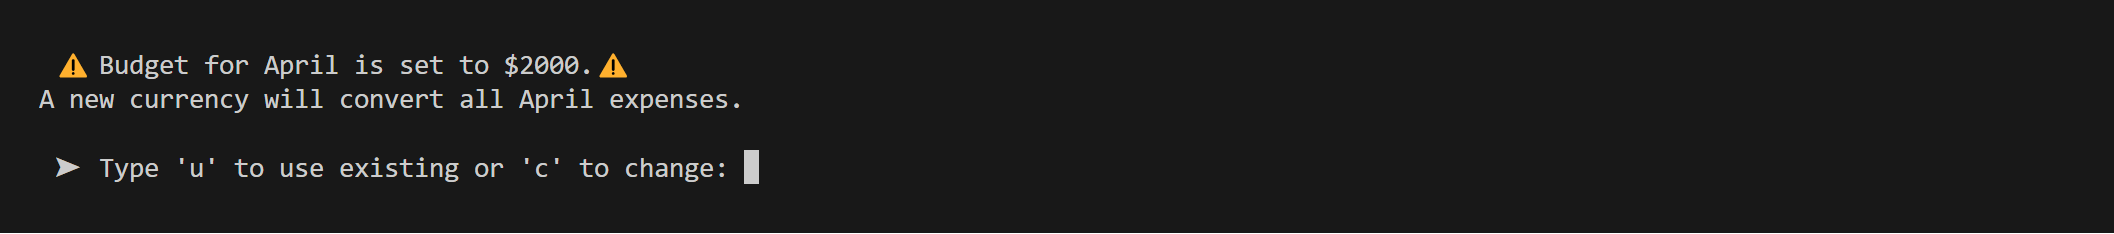
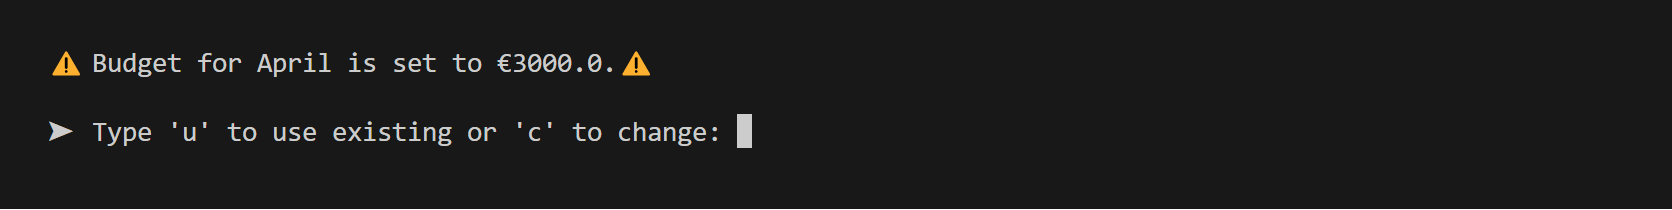
add: Add README content, imgs + clear terminals

diff --git a/run.py b/run.py
@@ -457,6 +457,7 @@ def validate_retr_budget(budg):
                 .strip()
                 .lower())
             if user_budget_input == "u":
+                clear_terminal()
                 print(f"✅  Budget for {budg_month}: {budg}")
                 break
             elif user_budget_input == "c":
@@ -546,6 +547,7 @@ def ask_expense(category: str):
             form_expense = format_expenses(user_exp)
             user_choice = confirm_input(form_expense, f' for "{category}".')
             if user_choice == "p":
+                clear_terminal()
                 print("\n ✅  Saved!\n ⌛  Updating your expense log...")
                 update_expenses([category, user_exp])
                 continue_expenses()

diff --git a/README.md b/README.md
@@ -5,6 +5,13 @@ The application is available for viewing [here](https://tag-track-revived-46181e
 
 The Google Sheets for this application is available for use [here](https://docs.google.com/spreadsheets/d/1kGdwNqPvyRYIRL4LbEy-CgS1YDIHI6uKYHOG7gMbuB8/edit#gid=1925370965).
 
+
+### A Note to Readers
+This application was initially developed with the additional functionality of currency choice and conversion, using the forex-python API. However, as the project neared its completion, the API malfunctioned and essentially shut down for maintenance, rendering this functionality unresponsive and with several terminal errors. As this was outside of control, a decision was made to remove this functionality and re-encorporate it at a later stage, perhaps using a different API. 
+
+The last commit message associated with currency conversion has a hash of _d30cd8ca8066823956a70192c097ff8337439da0_, and can be found [here](https://github.com/Ana-Niko-byte/tag-track/commits/main/). 
+
+
 ![reponsive UI](docs/images/amiresponsive.png)
 
 # Business/Social Goals
@@ -20,14 +27,13 @@ The Google Sheets for this application is available for use [here](https://docs.
 - As a first time user, I want the ability to quickly select options and enter my expenses.
 - As a first time user, I expect immediate feedback on my entries, with an option to easily exit and restart in case of errors.
 - As a first time user, I prefer having a single view where my expenses and budget are logged together for personal analysis. This should include a remainder calculation after all of the expenses have been deducted from my budget. 
-
+---
 - As a regular user, I seek the capability to log multiple expenses simultaneously in different categories and see the total spent in each category.
 - As a regular user, I need a visual cue to indicate when my spending exceeds my monthly budget.
 - As a regular user, I desire a monthly expense record for future reference in a recognisable and legible format.
-- As a regular user, I want the option of being able to log my expenses in multiple currencies.
 
 # UX Goals
-Due to the solely-backend nature of this project, enhanecement strategies for the UI's visual appeal are limited. Nonetheless:
+Due to the solely-backend nature of this project, enhancement strategies for the UI's visual appeal are limited. Nonetheless:
 
 - Design a well-structured terminal interface that utilizes spacing effectively for optimal readability.
 - Clear the terminal screen after each significant input to avoid visual littering and focus attention towards input validation and the next step.
@@ -37,30 +43,25 @@ Due to the solely-backend nature of this project, enhanecement strategies for th
 
 # Structure 
 The structure of the 'Tag Track' application is as follows: 
-
 - Title
-- Name input prompt with validation
-- Month input prompt (number list) with validation
-- Retrieval of any existing budget/ budget remainder
-    - + option of using the values or changing them
-- Currency input prompt with validation
-    - EUR
-    - GBP
-    - USD
-- Total Monthly Budget input prompt with validation
-    - Or budget retrieval system based on the user's month selection. 
-- List of Categorised Expenses
+- Name input prompt with validation.
+- Month input prompt (number list) with validation.
+- Retrieval of any existing budget/ budget remainder.
+    - Option of using the values or changing them.
+- Total Monthly Budget input prompt with validation.
+    - Or category selection based on the user's choice of using existing budget or changing it.
+- List of Categorised expenses for selection:
     - Rent
     - Groceries
     - Vehicle
     - Cafe/Restaurant
     - Online Shopping
     - Other
-- Category Input prompt with validation
-- Expense input prompt with validation
-- Visual Appendage in the form of a table with relevant budget calculation
+- Category Input prompt
+- Expense input prompt with validation.
+- Visual Appendage in the form of a table with relevant budget calculation. The table also retrieves the values of previous logs for each category and displays them in a different colour. 
 - _Press 'u' to upload expenses to Google Sheets OR Type 'q' to quit..._
-- Ability to _quit_ at each input prompt
+- Ability to _quit_ at most input prompts.
 
 # Scope of Application
 The purpose of the application is to gather expense data from the user and input this information into Google Sheets as individual rows. Google Sheets serves as a reference and as a recognisable and legible format in which the user may review their expenses, and see their annual spendings. 
@@ -68,24 +69,24 @@ The purpose of the application is to gather expense data from the user and input
 The scope of this application is as follows: 
 1. Name input with validation (to personalise the experience).
 
-2. Choice of month with validation and confirmation prompt, essential as the app works on a monthly framework for budgeting and final tallies. Users can select a month numerically (e.g., 1 for January, 2 for February), with a confirmation step to prevent accidental selections. The chosen month appears as a heading in both Google Sheets and the terminal table.
+2. Choice of month with validation and confirmation prompt, essential as the app works on a monthly framework for budgeting and final tallies. Users can select a month numerically (e.g., _1_ for _January_, _2_ for _February_), with a confirmation step to prevent accidental selections. The chosen month appears as a heading in both Google Sheets and the terminal table.
 
-3. Budget and Budget Remainder retrieval. After selecting a month, the application checks for any existing values in cells 'B1' - Month Budget, and 'F1' - Month Remainder. If found, prompts the user whether they wish to use these values or change them. If the user selects to use - the application jumps to category selection for expense logging. Else, continues to currency selection. 
+3. Budget and Budget Remainder retrieval. After selecting a month, the application checks for any existing values in cells _B1 - Month Budget_, and _F1 - Month Remainder_. If found, prompts the user whether they wish to use these values or change them. If the user selects to use - the application jumps to category selection for expense logging. Else, continues to budget input. 
 
-4. Currency selection with validation. 
+4. Monthly Budget Input - later transferred to Google Sheets as data for calculation. All expenses get appended with the Euro currency symbol. 
 
-5. Monthly Budget Input - later transferred to Google Sheets as data for calculation.
+5. User inputs are confirmed with _Type 'p' to proceed, 'c' to change, or 'q' to quit:_. The input accepts lower and uppercase letters, strips them incase the user pressed _space_ after the letter, and applies logic accordingly. 
 
-6. User inputs are confirmed with _Type 'p' to proceed, 'c' to change, or 'q' to quit:_. The input accepts lower and uppercase letters, and applies logic accordingly. 
+6. A list of expense categories, aiding users in organized entry of expenses. These categories also help in sorting expenses in Google Sheets and are used for generating expense totals in each category for each month in the annual _Overview_ sheet.
 
-7. A list of expense categories, aiding users in organized entry of expenses. These categories also help in sorting expenses in Google Sheets and are used for generating expense totals in each category for each month in the annual _Overview_ sheet.
+7. After entering expenses, the application automatically calculates and displays the total monthly expenses per category. This feature helps users understand their spending patterns and notice any imbalances.
 
-8. After entering expenses, the application automatically calculates and displays the total monthly expenses per category. This feature helps users understand their spending patterns and notice any imbalances. If the user had previously changed their desired currency from the one the application logged the budget remainder onto Google Sheets, changes in value are applied accordingly and the correct value is returned (subject to Currency Rates from Forex-Python).
-
-9. A prompt to ask whether users would like to upload their expenses to Google sheets into organised month spreads. This is the final step and serves as a reference directory for the user should they wish to review or amend their spendings at a later stage. The application displays a goodbye message after everything has been uploaded and exits. 
+8. A prompt to ask whether users would like to upload their expenses to Google sheets. This is the final step and serves as a reference directory for the user should they wish to review or amend their monthly spendings at a later stage. The application displays a goodbye message after everything has been uploaded and exits. 
 
 # Strategy
-The aim of the application is to provide an easy-to-use and interactive platform for monitoring expenses within a budget framework. Users can track their spending against a monthly budget and have the flexibility to check their remaining balance, whether it's in surplus or deficit, at any time. The application is flexible with currencies (at the moment supporting either 'EUR', 'GBP', and 'USD'), and applies all relevant changes to remainder value accordingly. Through Tag Tracker, users gain insights into their spending patterns, identify which months incur higher expenses, and adjust their spending behavior accordingly.
+The aim of the application is to provide an easy-to-use and interactive platform for monitoring expenses within a budget framework. 
+
+Users can track their spendings against a monthly budget and have the flexibility to check their remaining balance, whether it's in surplus or deficit, at any time. Through Tag-Track, users gain insights into their spending patterns, identify which months incur higher expenses, and can adjust their spending behavior accordingly.
 
 ## Target Audience
 - Anyone aged 16+ yrs.
@@ -113,7 +114,7 @@ Below is the flowchart for the application. Noted is the general flow of the app
 
 # Aesthetics
 ### Colour
-Color plays a key role in the tag-tracker interface, with specific hues chosen for their significance and legibility. The title of the tag-tracker and the headers of all tables feature green, a color universally linked with finance and money. Green is also chosen for its high legibility in the colorama Python library, making it a suitable choice.
+Color plays a key role in the tag-track interface, with specific hues chosen for their significance and legibility. The title of the tag-tracker and the headers of all tables feature green, a color universally linked with finance and money. Green is also chosen for its high legibility in the colorama Python library, making it a suitable choice.
 
 ![tag tracker heading](docs/images/heading.png)
 
@@ -121,6 +122,8 @@ For instances where a user exceeds their monthly budget, red is utilized in the 
 
 ![conclusive user table feature (green)](docs/images/conclusive-table-green.png)
 ![conclusive user table feature (red)](docs/images/conclusive-table-red.png)
+
+Yellow is chosen for showing finances that were logged previously - mostly because it differs the most from red and green, and is easy to read against the dark terminal screen.
 
 The main reason for using colour in the application is to provide a somewhat engaging interface for the user, and to distinguish key pieces of text from the terminal face. 
 
@@ -137,14 +140,10 @@ Emojis/icons are used throughout the application to visually aid users in distin
 - 👋 : signifies exiting. 
 
 # Features
-### Month/Currency/Categories Choice
+### Month/Categories Choice
 Users can choose a month for tracking their expenses from a numerical list. This selection process retrieves the corresponding monthly sheet from Google Sheets, along with any existing data relevant to that month. Later in the application, both the user's expenses and budget information are recorded onto the appropriate Google Sheet for that month, and calculations for total expenses are made for the corresponding month row in the overview sheet. 
 
 ![month feature](docs/images/month-selection.png)
-
-Users are given the option to select from 3 different currencies to record their expenses. This feature integrates with the currencies Python library, enabling the display of corresponding currency symbols next to the users' expense and budget entries. Forex-python is used for converting values from one currency to another, e.g., for the logic calculating budget remainder.
-
-![currency feature](docs/images/currency-selection.png)
 
 Users are given the option to select from 6 different categories to record their expenses. These categories represent columns in the month sheets, to which users can log their expenses. These same columns are replicated in the overview sheet, providing users with a detailed annual summary of their expenses across all categories.
 
@@ -159,9 +158,9 @@ Note: This image does not relate to the path followed through the application as
 As mentioned, the user's month selection retrieves the corresponding Google Sheet with all relevant data already on it. This data includes a check for an existing budget previously logged by the user:
 
 #### Existing Budget
-If one exists, the user is prompted on whether they wish to continue with this budget, or update it to a new value. The input is then validated and the application proceeds according to the user's choice. 
+If a month budget exists, the user is prompted to choose to continue with this budget, or update it to a new value. The input is then validated and the application proceeds according to the user's choice. 
 
-In the first image below, there is an existing budget of 6000 euro for the month of January.
+In the first image below, there is an existing budget of 3000 euro for the month of January.
 
 ![existing budget in Google Sheets](docs/images/existing-budget.png)
 
@@ -185,8 +184,14 @@ The conclusive user table displays a summary of the user's logged expenses. The 
 ### Google Sheets Logging + Overview Calculations
 Under the conclusive user expense table, the user is asked whether they want to log their expenses to Google Sheets. If not, the application displays a goodbye message and does not log anything. If yes, the expenses are logged to Google Sheets and the overview sheet is automatically updated with new totals.
 
-Below is an example after the user has been logging expenses over the course of a few months. Expenses are added up and logged to the overview sheet. In the case of cell 'F2' - where the currency differs from the rest, the user had logged only one expense, the currency of 'GBP'. This means that any existing value for that category was converted to 'GBP', prior to having the new expense added onto it and logged.
+Below is an example after the user has been logging expenses over the course of a few months. Expenses are added up and logged to the overview sheet.
+
 ![overview feature](docs/images/tag-track-overview.png)
+
+### Goodbye
+If the user types 'q' at any of the checkpoints, the application displays a goodbye message and exits. Any relevant values are reset. 
+
+![goodbye message](docs/images/goodbye.png)
 
 # Technologies
 - [gspread](https://pypi.org/project/gspread/) - for interacting with Google Sheets.
@@ -197,7 +202,7 @@ Below is an example after the user has been logging expenses over the course of 
 - [colorama](https://pypi.org/project/colorama/) - for text colours. 
 - [prettytable](https://pypi.org/project/prettytable/) - for tables.
 - [termcolor](https://pypi.org/project/termcolor/) - used in title and heading colours. 
-- [currencies](https://pypi.org/project/currencies/) - for currency symbols and conversions. 
+- [currencies](https://pypi.org/project/currencies/) - for currency symbols. 
 - [amiresponsive](https://ui.dev/amiresponsive?url=https://tag-track-cc45575f1826.herokuapp.com/) - for the responsive png
 - [Code Beautify](https://codebeautify.org/python-formatter-beautifier) - for beautifying my Python Code.
 - [CI Python Linter](https://pep8ci.herokuapp.com/) - for detecting lint in my code.
@@ -208,15 +213,14 @@ Below is an example after the user has been logging expenses over the course of 
 |----------|----------|----------|----------|----------|
 | Intro   | Print? Ask Name?   | Click 'Run Program' | Heading prints as expected, asks Name | <img src="docs/images/thumbs-up.jpg">   |
 | Name Input  | Loop until Validated? Month input?   | Inputs: '', 'ana43', '35', 'ana'   | Loops until validated ('ana') with appropriate error messages, greeting with capitalised Name, asks Month | <img src="docs/images/thumbs-up.jpg"> |
-| Month Input   | Loop until Validated? Currency choice?   | Inputs: '', letters, numbers > 12, '1' | Loops until validated ('1') with appropriate error messages, asks Currency   | <img src="docs/images/thumbs-up.jpg"> |
-| Budget Retrieval   | Retrieve Existing Budget? Display? Give option to proceed or change? Loop Validation? Ask Currency if no Existing?   | Check for existing budget on Tag-Track Google Sheets, Inputs: 'w', 'c', 'p' | Retrieves and Displays Correct Budget, Loops until validated (both 'c' to change, then 'p' to proceed), If none exists - asks for Budget, Displays Category Choice | <img src="docs/images/thumbs-up.jpg"> |
+| Month Input   | Loop until Validated? Retrieves Budget?   | Inputs: '', letters, numbers > 12, '1' | Loops until validated ('1') with appropriate error messages, asks Budget Retrieval Message/ Jumps to Budget Prompt   | <img src="docs/images/thumbs-up.jpg"> |
+| Budget Retrieval   | Retrieve Existing Budget? Display? Give option to proceed or change? Loop Validation? Ask Budget if no Existing?   | Check for existing budget on Tag-Track Google Sheets, Inputs: 'w', 'c', 'p' | Retrieves and Displays Correct Budget, Loops until validated (both 'c' to change, then 'p' to proceed), If none exists - asks for Budget, Displays Category Choice | <img src="docs/images/thumbs-up.jpg"> |
 | Procedure Check in! | 'p' to proceed, 'c' to change - re-plays previous feature, 'q' to exit | Inputs: '', 'g', '4', 'p', 'c', 'q' (at different intervals)  | Loops until validated ('p') with appropriate error messages, proceeds to next feature, 'c' allows the user to change their input, 'q' exits the application | <img src="docs/images/thumbs-up.jpg"> |
-| Currency Choice   | Loop until Validated? Exit Check? | Inputs: '', letters, numbers > 3, '1' | Loops until validated ('1') with appropriate error messages, proceeds to next Check | <img src="docs/images/thumbs-up.jpg"> |
-| Currency Symbol + Formatting | Return Correct Symbol on Expense? | Choose Currency, Visual Check on confirmation msg, budget format + expenses format later | Correctly Returns Formatted Expense | <img src="docs/images/thumbs-up.jpg"> |
+| Currency Formatting | Correctly appends euro symbol? | Visual Check on budget format + expenses format | Correctly Returns Formatted Expense | <img src="docs/images/thumbs-up.jpg"> |
 | Category Choice | Loop until Validated? Expense Input Prompt? | Inputs: '', letters, numbers > 6, '2' | Loops until validated ('2') with appropriate error messages, proceeds to Expense Input | <img src="docs/images/thumbs-up.jpg"> |
 | Expense Input | Loop until Validated? Take Float? Expense Check? | Inputs: '', letters, '103.56' | Loops until validated ('103.56') with appropriate error messages, proceeds to Expense Check | <img src="docs/images/thumbs-up.jpg"> |
 | Expense Check | Loop until Validated? Allow another Expense Entry? 'a', Continue to User Expense Table? 'c' | Inputs: '', 't', 'a', 'c' | Loops Until Validated, Allows another expense entry 'a' - (Category Choice, then Expense Input Prompt), Continues to User Expense Table - 'c' | <img src="docs/images/thumbs-up.jpg"> |
-| Correct Remainder Calculation | Display: Correct Remainder Value? Correct Symbol Appendage? | Manual Addition/Subtraction + Comparison, Visual Check for Symbol + Colour if negative/positive value of remainder | Displays all Values + Correct Colours for negative/positive budget remainder | <img src="docs/images/thumbs-up.jpg"> |
+| Correct Remainder Calculation | Display: Correct Remainder Value? Symbol Appendage? | Manual Addition/Subtraction + Comparison, Visual Check for Symbol + Colour if negative/positive value of remainder | Displays all Values + Correct Colours for negative/positive budget remainder | <img src="docs/images/thumbs-up.jpg"> |
 | User Expense Table | Display: Budget? Correct Values including Addition of Same-Category Expenses? Remainder in Colour?, Upload/Exit Check? | Manual Addition/Subtraction + Comparison | Displays all Values + Correct Colours for negative/positive budget remainder | <img src="docs/images/thumbs-up.jpg"> |
 | Upload/Exit Check | Loop until Validated? Upload ('u') or Exit ('q')? | Inputs: '', 't', 'u', | Loops until validated, Uploads + Displays Success Msg, and/or Exits on 'q' | <img src="docs/images/thumbs-up.jpg"> |
 
@@ -292,11 +296,31 @@ This issue was highlighted in the library's repository in the 'issues' tab, and 
 
 It is my intention to re-encorporate this logic into the application through the original API source following course completion. 
 
+### Deprecation Warning
+While not necessarily an error, a warning was found on the terminal window regarding a deprecation of functionality associated with the gspread library. 
+
+![deprecation warning](docs/images/deprecation-warning.png)
+
+While the warning was addressed (to the best of my abilities), the warning message failed to disappear. A useful link used while attempting to resolve this issue can be found [here](https://github.com/burnash/gspread/issues/1310).
+
 # Accessibility & Performance
-This application was developed using VSCode's Pylance; a fast and feature-rich language server for Python that provides excellent IntelliSense capabilities. It enhances your development experience with: Type checking. Autocompletion.
+The application provides several instances of input validation, with relevant error messages and visual cues - as illustrated in the use of emojis:
+- ⚠: signifies a checkpoint or warning message.
+- ➤ : signifies an input prompt.
+    - ❌ : failed validation.
+    - 👉 : indicates the type of expected input.
+    - ✅ : successful validation.
+- 💡 : signifies insight/note/tip.
+- ⌛ : signifies a pending request.
+- 👋 : signifies exiting.
+ and colour cues in the conclusive user table (red and green for overdraft). 
+
+ Overall, the application responds quickly, except where the budget remainder and conclusive user table are being formulated (generally takes ~20 seconds) for everything to print.
 
 # Deployment
-Please Note: The guide below details the steps in accordance with the original application deployment titled 'tag-track', however due to some billing issues the application fell asleep (as can be seen from the third image below) and later faded into a lighter purple. The application is now deployed using 'tag-track-revived', with the exact same steps. 
+Please Note: The guide below details the steps in accordance with the original application deployment titled _tag-track_, however due to some billing issues the application fell asleep (as can be seen from the third image below) and later faded into a lighter purple. The application is now deployed using _tag-track-revived_, with the exact same steps. 
+
+The deployed application can be found at the top of this document.
 
 ### General Requirements:
 - Your Python code must be placed in the `run.py` file.
